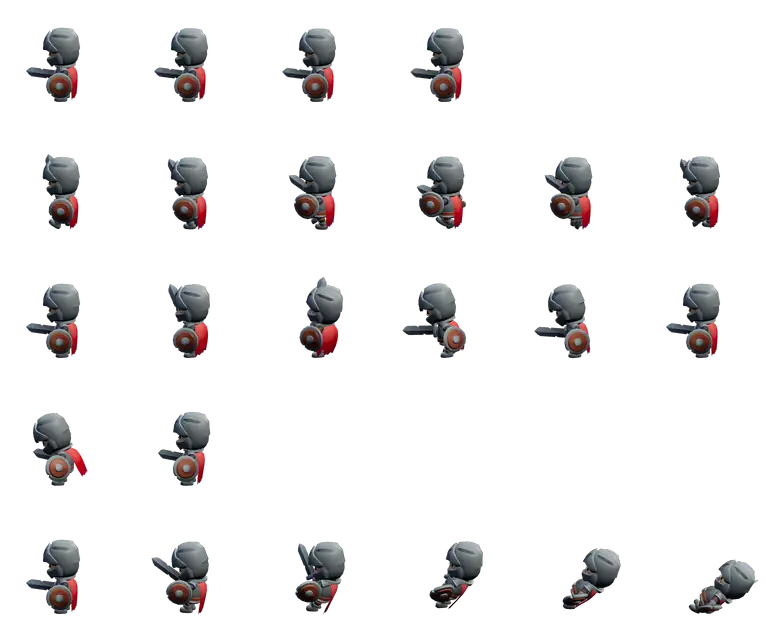
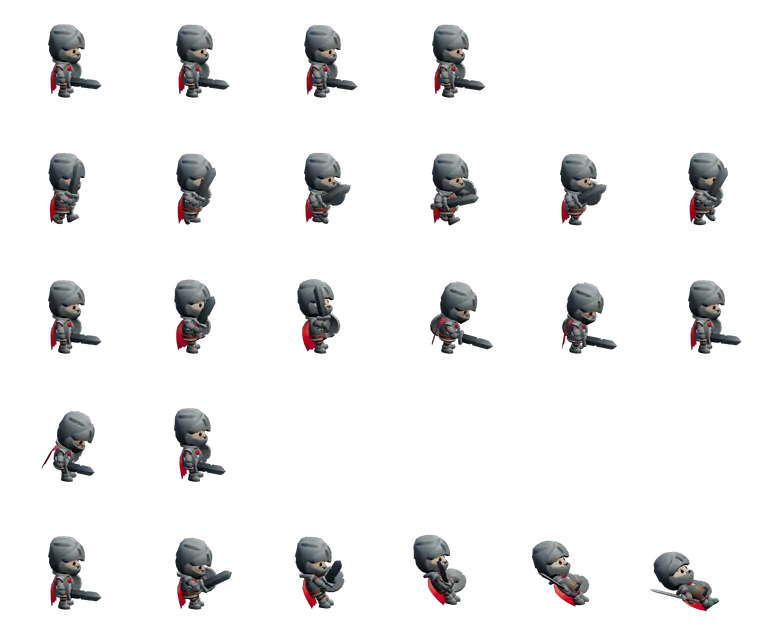
Tafelrunde 3D: die Figuren schauen jetzt wirklich nach rechts
FIGUREN3D_BLICKT verspricht 'rechts', gerendert war 'links'. Beweis am
Modell statt am Augenmass: In Rogue.glb liegt Rogue_ArmRight bei
x -0,97..-0,09 und Rogue_Cape ganz bei z -0,39..-0,04. Der rechte Arm
links, der Umhang hinten, die Zehen nach +Z - das Modell schaut nach +Z,
wie es die glTF-Konvention vorsieht.

Damit rechnet sich die Drehung auf: Ry(a) bildet +Z auf (sin a, 0, cos a)
ab, die Kamera hat +X rechts im Bild. Gewollt ist +90° - 17°; im Skript
stand -90° - 17°, also links UND 17 Grad von der Kamera weg gedreht.

Das ist der Grund, warum ein blosses Umdrehen des Vorzeichens nicht
reicht - es gibt zwei unabhaengige Fehler (vorne/hinten und links/rechts),
und -90° - 17° hatte beide. Der Kommentar an der Zeile nennt jetzt beide
samt Erkennungszeichen: Hinterkopf fuer den einen, Waffe links vor dem
Koerper fuer den anderen.

Nebenwirkung, sichtbar: Die Figuren stehen jetzt 34 Grad weiter zur
Kamera. Alle fuenf zeigen Augen - auch die vier mit Kopfbedeckung, an
denen bisher keins zu sehen war.

Der Ausschnitt verschiebt sich dadurch, deshalb der neue Fusspunkt in
figuren3d.ts (y 0,7729 -> 0,7394). Fuenf Blaetter 203,8 -> 212,3 kB.

diff --git a/packages/client/src/figuren3d/figuren3d.ts b/packages/client/src/figuren3d/figuren3d.ts
@@ -73,10 +73,10 @@ export const FIGUREN3D_ZEILEN = 5;
  * NICHT die Zellmitte: Der Ausschnitt umfasst ALLE Bewegungen, auch den weit
  * ausgeholten Schlag und das Zusammensacken, und liegt deshalb hoeher als die
  * stehende Figur. Wer die Zelle mittig auf ein Feld setzt, stellt die Figur ein
- * Stueck zu hoch — bei 128 Pixeln sind das gut 35. Ausgerechnet aus der Kamera,
+ * Stueck zu hoch — bei 128 Pixeln sind das gut 30. Ausgerechnet aus der Kamera,
  * nicht im Bild gemessen.
  */
-export const FIGUREN3D_FUSSPUNKT = { x: 0.5, y: 0.7729 } as const;
+export const FIGUREN3D_FUSSPUNKT = { x: 0.5, y: 0.7394 } as const;
 
 /**
  * Alle Figuren schauen nach RECHTS.
@@ -86,8 +86,11 @@ export const FIGUREN3D_FUSSPUNKT = { x: 0.5, y: 0.7729 } as const;
  * scaleX(-1)`. Deshalb darf in die Bilder nichts hinein, das seitenrichtig
  * sein muss: keine Schrift, keine Zahl, kein Wappen.
  *
- * Zeigt eine Figur den Hinterkopf statt des Gesichts, ist im Renderskript das
- * Vorzeichen der Drehung gekippt — nicht dieses Spiegeln.
+ * WORAN MAN SIEHT, DASS ES STIMMT, ohne den Renderer zu befragen: Die Waffe
+ * liegt RECHTS vor dem Koerper, der Umhang haengt LINKS dahinter, und beim
+ * Meuchler steht das Auge auf der rechten Kopfhaelfte. Stimmt eines davon
+ * nicht, liegt es am Vorzeichen im Renderskript und nicht an diesem Spiegeln —
+ * dort steht, welcher der beiden moeglichen Fehler es ist.
  */
 export const FIGUREN3D_BLICKT = 'rechts' as const;
 
